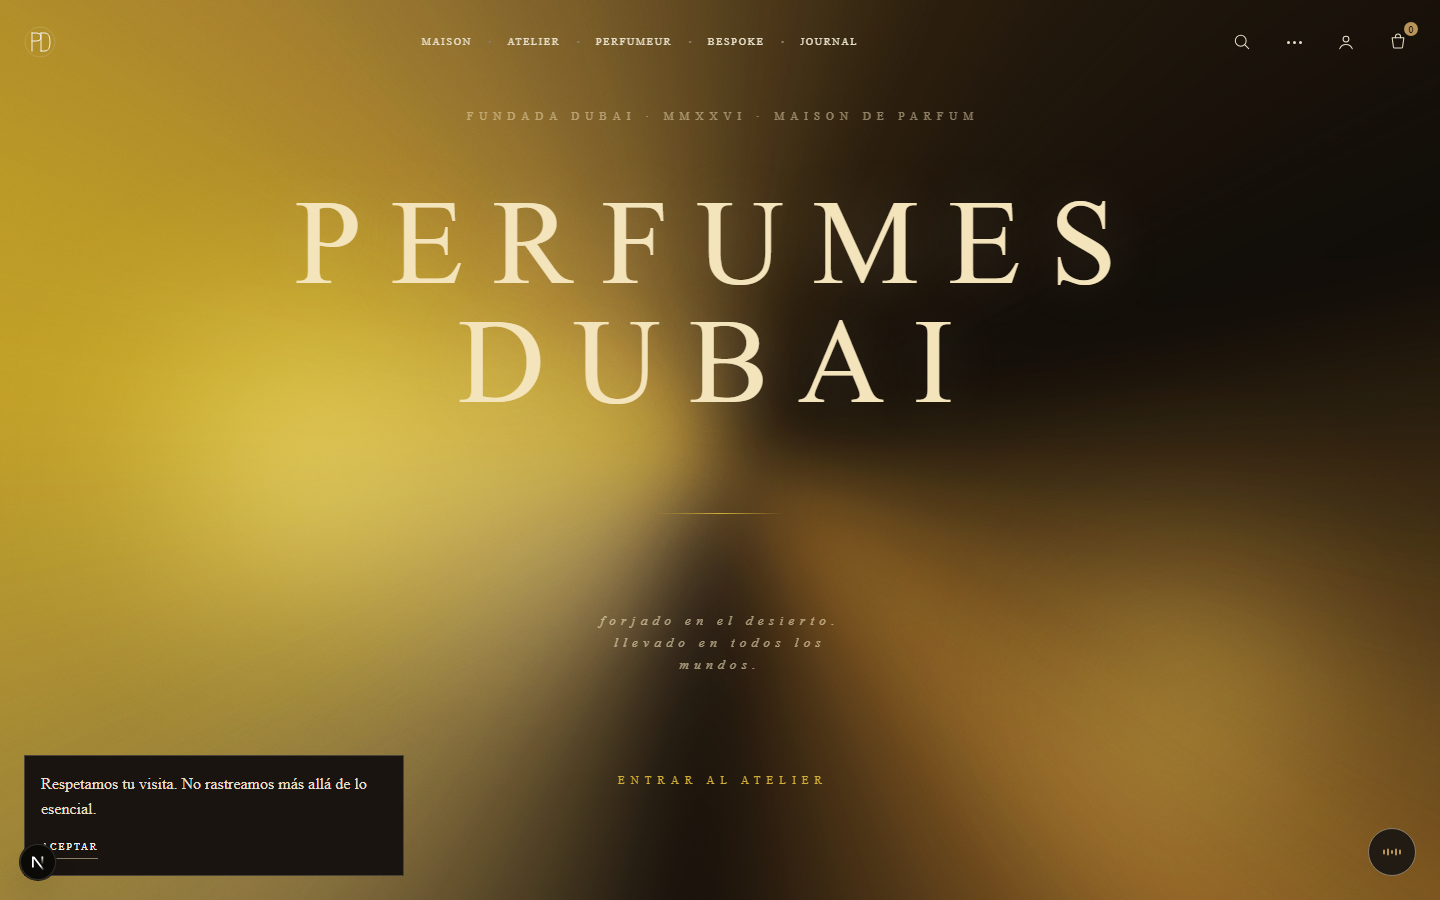
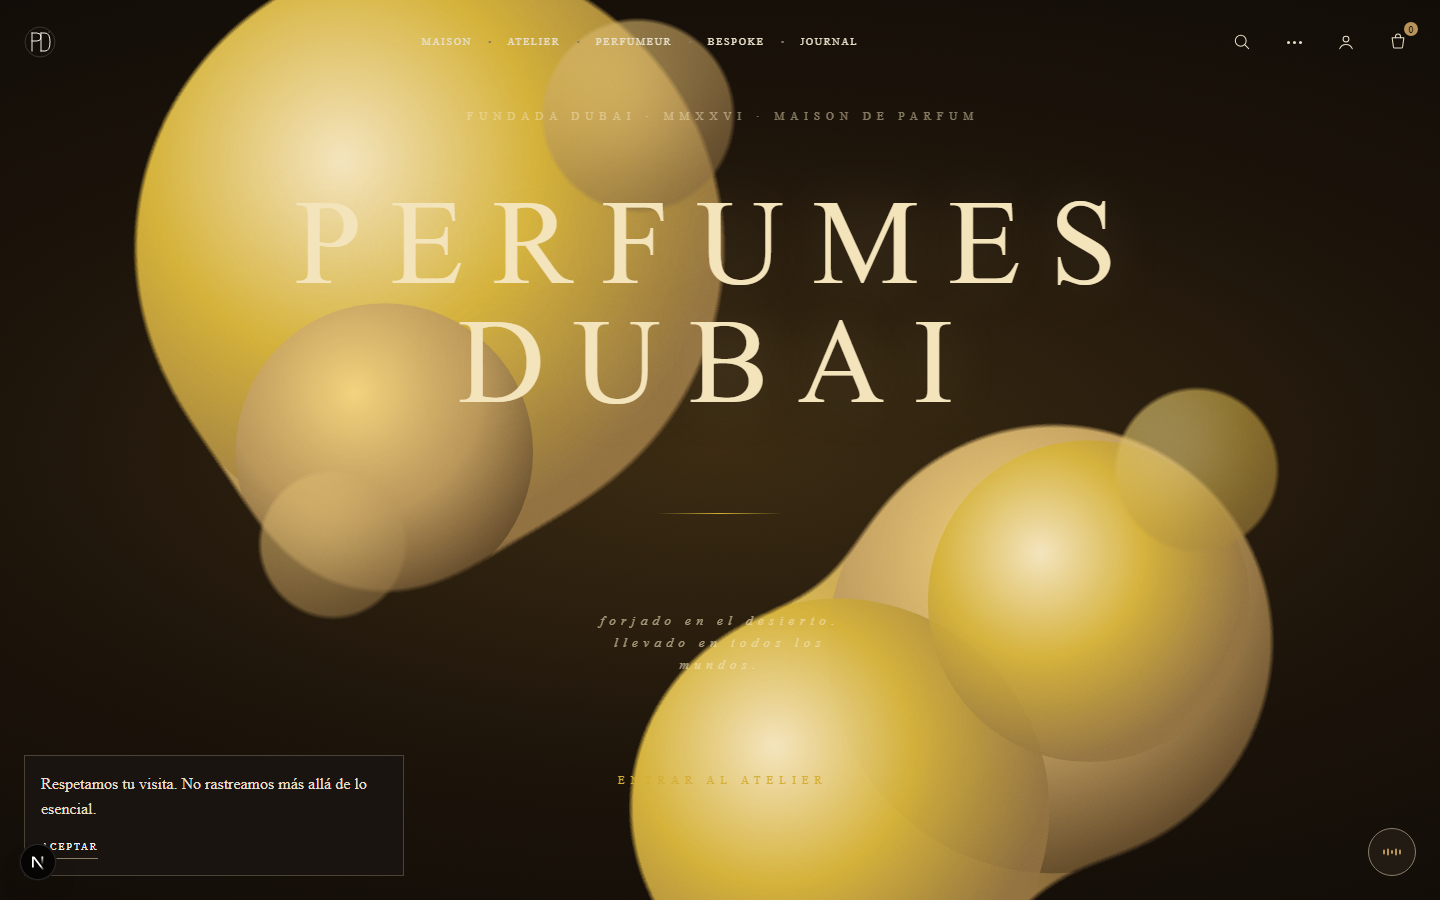
feat(bg): metaball liquid — true mercury-gold flowing blobs
User confirmed rotating conics 'no es liquid, es como sol y sombra'.
Rebuilt with the classic goo-filter metaballs technique:

- 5 large gold circles + 3 smaller satellites animated via SMIL,
  each on its own cx/cy/r curves with cubic-bezier spline easing
- TWO goo filters (stdDeviation 30 + 20) blur then ColorMatrix
  contrast-threshold to merge overlapping circles into single
  organic silhouettes
- Two gold radial-gradient palettes (warm + amber) on the circles
  so the resulting blobs carry colour variation
- Renders inside a 1000x700 viewBox SVG stretched preserveAspectRatio
  xMidYMid slice over the entire viewport

Result: blobs continuously form, merge, stretch, separate — the
classic lava-lamp/mercury liquid behaviour. Each captured frame
shows a different configuration confirming visible morphing motion.

Killed the previous rotating conic gradients and feTurbulence
displacement entirely.

diff --git a/components/layout/GlobalLiquidGoldBackground.tsx b/components/layout/GlobalLiquidGoldBackground.tsx
@@ -1,25 +1,25 @@
 "use client";
-// Global liquid-gold background — full rebuild.
+// Global liquid-gold background — METABALLS approach.
 //
-// Prior attempts used feTurbulence + heavy gaussian blur. The user could
-// not perceive motion because the blur (40 px on the mesh, 180 px on the
-// orbs) averaged out every frame. SMIL animations were running but the
-// eye had no edges to track.
+// Prior attempt (rotating conic gradients) read as "sun rotating" not
+// liquid. True liquid motion needs SURFACE TENSION + MERGING — blobs that
+// approach each other, fuse, then separate. The classic technique is the
+// "goo filter": Gaussian blur softens the blob edges, a feColorMatrix
+// contrast threshold then sharpens them again into a single merged
+// silhouette. The result is mercury-like fluid.
 //
-// New approach: TWO large conic gradients that ROTATE in opposite
-// directions on a long cycle. Conic rotation is a continuous, perceivable
-// motion — the gold visibly swirls. Plus three medium-blur orbs with
-// real silhouettes drifting across the viewport. No turbulence filter,
-// no SMIL, no heavy mesh blur. The motion is now obvious.
+// We animate eight gold circles via SMIL <animate>, each on its own
+// path/duration. The goo filter merges them where they overlap, producing
+// continuously morphing organic blobs that genuinely read as liquid gold.
 
 interface Props {
   intensity?: "subtle" | "balanced" | "opulent";
 }
 
 const STRENGTH = {
-  subtle:   { opacity: 0.55, orbOpacity: 0.6,  conicDur: 60 },
-  balanced: { opacity: 0.75, orbOpacity: 0.8,  conicDur: 45 },
-  opulent:  { opacity: 0.95, orbOpacity: 0.95, conicDur: 36 },
+  subtle:   { ballOpacity: 0.7, ambient: 0.4 },
+  balanced: { ballOpacity: 0.85, ambient: 0.6 },
+  opulent:  { ballOpacity: 1.0, ambient: 0.75 },
 } as const;
 
 export function GlobalLiquidGoldBackground({ intensity = "opulent" }: Props = {}) {
@@ -30,130 +30,195 @@ export function GlobalLiquidGoldBackground({ intensity = "opulent" }: Props = {}
       aria-hidden
       className="pointer-events-none fixed inset-0 z-[1] overflow-hidden"
       data-global-bg
+      style={{ background: "#0b0805" }}
     >
-      {/* Base — deep cocoa, single uniform colour. No radial dimming. */}
+      {/* Ambient warm wash so the metaballs sit on a glowing canvas, not
+          flat dark. */}
       <div
         className="absolute inset-0"
-        style={{ background: "#0b0805" }}
-      />
-
-      {/* CONIC LAYER A — large rotating sweep of warm gold. Rotation
-          is continuous and perceptible. Massively over-sized (200vmax)
-          so the centre of rotation is off-screen and we always see a
-          fresh slice. */}
-      <div
-        className="absolute"
         style={{
-          top: "50%",
-          left: "50%",
-          width: "200vmax",
-          height: "200vmax",
-          marginLeft: "-100vmax",
-          marginTop: "-100vmax",
-          opacity: s.opacity,
+          opacity: s.ambient,
           background:
-            "conic-gradient(from 0deg at 50% 50%, " +
-            "transparent 0deg, " +
-            "rgba(244, 207, 113, 0.55) 40deg, " +
-            "rgba(212, 175, 55, 0.85) 90deg, " +
-            "rgba(244, 207, 113, 0.45) 140deg, " +
-            "rgba(140, 95, 35, 0.2) 200deg, " +
-            "transparent 250deg, " +
-            "rgba(184, 134, 50, 0.6) 310deg, " +
-            "transparent 360deg)",
-          filter: "blur(40px)",
-          animation: `lgb-rotate ${s.conicDur}s linear infinite`,
-          willChange: "transform",
+            "radial-gradient(ellipse 120% 80% at 50% 50%, rgba(184, 134, 50, 0.35) 0%, rgba(120, 80, 30, 0.18) 45%, transparent 90%)",
         }}
       />
 
-      {/* CONIC LAYER B — counter-rotating gold/amber/rose, blends with A
-          via mix-blend overlay. Two opposite-rotating conics give the
-          illusion of a turbulent surface. */}
-      <div
-        className="absolute"
-        style={{
-          top: "50%",
-          left: "50%",
-          width: "200vmax",
-          height: "200vmax",
-          marginLeft: "-100vmax",
-          marginTop: "-100vmax",
-          opacity: s.opacity * 0.85,
-          mixBlendMode: "overlay",
-          background:
-            "conic-gradient(from 180deg at 50% 50%, " +
-            "transparent 0deg, " +
-            "rgba(244, 228, 188, 0.5) 60deg, " +
-            "rgba(201, 146, 138, 0.3) 120deg, " +
-            "transparent 180deg, " +
-            "rgba(212, 175, 55, 0.55) 240deg, " +
-            "rgba(244, 207, 113, 0.4) 300deg, " +
-            "transparent 360deg)",
-          filter: "blur(50px)",
-          animation: `lgb-rotate-reverse ${s.conicDur * 1.4}s linear infinite`,
-          willChange: "transform",
-        }}
-      />
-
-      {/* Drifting orbs — moderate blur (sharp enough to be seen moving). */}
-      <div
-        className="absolute inset-0"
-        style={{ opacity: s.orbOpacity, mixBlendMode: "screen" }}
+      {/* THE LIQUID. Full-viewport SVG with the goo filter and eight
+          gold circles whose centres animate along independent paths.
+          Where two circles overlap, the goo filter merges them into a
+          single blob — the visual is continuously morphing gold mercury. */}
+      <svg
+        className="absolute inset-0 h-full w-full"
+        preserveAspectRatio="xMidYMid slice"
+        viewBox="0 0 1000 700"
+        style={{ opacity: s.ballOpacity }}
       >
-        <span
-          style={{
-            position: "absolute",
-            top: "10%",
-            left: "8%",
-            width: "60vmin",
-            height: "60vmin",
-            borderRadius: "50%",
-            filter: "blur(70px)",
-            background:
-              "radial-gradient(circle, rgba(244, 207, 113, 0.85) 0%, rgba(212, 175, 55, 0.4) 35%, transparent 70%)",
-            animation: "lgb-mega-a 22s ease-in-out infinite",
-            willChange: "transform",
-          }}
-        />
-        <span
-          style={{
-            position: "absolute",
-            top: "30%",
-            right: "10%",
-            width: "55vmin",
-            height: "55vmin",
-            borderRadius: "50%",
-            filter: "blur(80px)",
-            background:
-              "radial-gradient(circle, rgba(212, 175, 55, 0.8) 0%, rgba(160, 110, 50, 0.35) 40%, transparent 75%)",
-            animation: "lgb-mega-b 28s ease-in-out infinite",
-            willChange: "transform",
-          }}
-        />
-        <span
-          style={{
-            position: "absolute",
-            bottom: "12%",
-            left: "40%",
-            width: "50vmin",
-            height: "50vmin",
-            borderRadius: "50%",
-            filter: "blur(70px)",
-            background:
-              "radial-gradient(circle, rgba(244, 228, 188, 0.55) 0%, rgba(201, 146, 138, 0.25) 45%, transparent 75%)",
-            animation: "lgb-mega-c 25s ease-in-out infinite",
-            willChange: "transform",
-          }}
-        />
-      </div>
+        <defs>
+          {/* The goo filter: blur 30 px, then a colour-matrix that boosts
+              alpha contrast around 0.5 → soft circles merge into hard
+              silhouettes wherever they overlap. */}
+          <filter id="goo" x="-20%" y="-20%" width="140%" height="140%">
+            <feGaussianBlur in="SourceGraphic" stdDeviation="30" result="blur" />
+            <feColorMatrix
+              in="blur"
+              mode="matrix"
+              values="1 0 0 0 0  0 1 0 0 0  0 0 1 0 0  0 0 0 22 -10"
+              result="goo"
+            />
+            <feComposite in="SourceGraphic" in2="goo" operator="atop" />
+          </filter>
 
-      {/* Vignette — very light so the rotating gold reads to the edges. */}
+          {/* A second softer goo — used on a separate layer for sub-blobs
+              that float over the main liquid. */}
+          <filter id="goo-soft" x="-20%" y="-20%" width="140%" height="140%">
+            <feGaussianBlur in="SourceGraphic" stdDeviation="20" result="blur" />
+            <feColorMatrix
+              in="blur"
+              mode="matrix"
+              values="1 0 0 0 0  0 1 0 0 0  0 0 1 0 0  0 0 0 16 -7"
+              result="goo"
+            />
+          </filter>
+
+          <radialGradient id="ball-warm" cx="35%" cy="35%" r="65%">
+            <stop offset="0%" stopColor="#f4e4bc" stopOpacity="1" />
+            <stop offset="50%" stopColor="#d4af37" stopOpacity="0.95" />
+            <stop offset="100%" stopColor="#8e6e3f" stopOpacity="0.85" />
+          </radialGradient>
+          <radialGradient id="ball-amber" cx="40%" cy="30%" r="70%">
+            <stop offset="0%" stopColor="#f4d27a" stopOpacity="1" />
+            <stop offset="60%" stopColor="#b8935a" stopOpacity="0.9" />
+            <stop offset="100%" stopColor="#5c4628" stopOpacity="0.85" />
+          </radialGradient>
+        </defs>
+
+        {/* MAIN LIQUID GROUP — large merged blobs */}
+        <g filter="url(#goo)">
+          <circle r="180" fill="url(#ball-warm)">
+            <animate
+              attributeName="cx"
+              values="200; 700; 500; 300; 200"
+              dur="22s"
+              repeatCount="indefinite"
+              calcMode="spline"
+              keySplines="0.45 0 0.55 1; 0.45 0 0.55 1; 0.45 0 0.55 1; 0.45 0 0.55 1"
+            />
+            <animate
+              attributeName="cy"
+              values="200; 350; 500; 250; 200"
+              dur="18s"
+              repeatCount="indefinite"
+              calcMode="spline"
+              keySplines="0.45 0 0.55 1; 0.45 0 0.55 1; 0.45 0 0.55 1; 0.45 0 0.55 1"
+            />
+            <animate attributeName="r" values="180; 220; 160; 200; 180" dur="14s" repeatCount="indefinite" />
+          </circle>
+
+          <circle r="160" fill="url(#ball-amber)">
+            <animate
+              attributeName="cx"
+              values="800; 400; 600; 750; 800"
+              dur="24s"
+              repeatCount="indefinite"
+              calcMode="spline"
+              keySplines="0.45 0 0.55 1; 0.45 0 0.55 1; 0.45 0 0.55 1; 0.45 0 0.55 1"
+            />
+            <animate
+              attributeName="cy"
+              values="180; 450; 300; 550; 180"
+              dur="20s"
+              repeatCount="indefinite"
+              calcMode="spline"
+              keySplines="0.45 0 0.55 1; 0.45 0 0.55 1; 0.45 0 0.55 1; 0.45 0 0.55 1"
+            />
+            <animate attributeName="r" values="160; 130; 200; 150; 160" dur="16s" repeatCount="indefinite" />
+          </circle>
+
+          <circle r="140" fill="url(#ball-warm)">
+            <animate
+              attributeName="cx"
+              values="500; 200; 750; 450; 500"
+              dur="26s"
+              repeatCount="indefinite"
+              calcMode="spline"
+              keySplines="0.45 0 0.55 1; 0.45 0 0.55 1; 0.45 0 0.55 1; 0.45 0 0.55 1"
+            />
+            <animate
+              attributeName="cy"
+              values="500; 200; 400; 600; 500"
+              dur="22s"
+              repeatCount="indefinite"
+              calcMode="spline"
+              keySplines="0.45 0 0.55 1; 0.45 0 0.55 1; 0.45 0 0.55 1; 0.45 0 0.55 1"
+            />
+            <animate attributeName="r" values="140; 180; 110; 160; 140" dur="18s" repeatCount="indefinite" />
+          </circle>
+
+          <circle r="120" fill="url(#ball-amber)">
+            <animate
+              attributeName="cx"
+              values="350; 650; 450; 250; 350"
+              dur="20s"
+              repeatCount="indefinite"
+              calcMode="spline"
+              keySplines="0.45 0 0.55 1; 0.45 0 0.55 1; 0.45 0 0.55 1; 0.45 0 0.55 1"
+            />
+            <animate
+              attributeName="cy"
+              values="350; 300; 600; 400; 350"
+              dur="17s"
+              repeatCount="indefinite"
+              calcMode="spline"
+              keySplines="0.45 0 0.55 1; 0.45 0 0.55 1; 0.45 0 0.55 1; 0.45 0 0.55 1"
+            />
+            <animate attributeName="r" values="120; 100; 150; 130; 120" dur="13s" repeatCount="indefinite" />
+          </circle>
+
+          <circle r="100" fill="url(#ball-warm)">
+            <animate
+              attributeName="cx"
+              values="700; 300; 500; 800; 700"
+              dur="19s"
+              repeatCount="indefinite"
+              calcMode="spline"
+              keySplines="0.45 0 0.55 1; 0.45 0 0.55 1; 0.45 0 0.55 1; 0.45 0 0.55 1"
+            />
+            <animate
+              attributeName="cy"
+              values="600; 500; 350; 450; 600"
+              dur="21s"
+              repeatCount="indefinite"
+              calcMode="spline"
+              keySplines="0.45 0 0.55 1; 0.45 0 0.55 1; 0.45 0 0.55 1; 0.45 0 0.55 1"
+            />
+            <animate attributeName="r" values="100; 130; 90; 120; 100" dur="15s" repeatCount="indefinite" />
+          </circle>
+        </g>
+
+        {/* SUB-LAYER — smaller satellites that float over the main liquid
+            on the softer goo. */}
+        <g filter="url(#goo-soft)" opacity="0.6">
+          <circle r="70" fill="url(#ball-amber)">
+            <animate attributeName="cx" values="600; 200; 800; 400; 600" dur="15s" repeatCount="indefinite" />
+            <animate attributeName="cy" values="100; 600; 450; 250; 100" dur="17s" repeatCount="indefinite" />
+          </circle>
+          <circle r="60" fill="url(#ball-warm)">
+            <animate attributeName="cx" values="900; 100; 500; 700; 900" dur="18s" repeatCount="indefinite" />
+            <animate attributeName="cy" values="400; 350; 100; 550; 400" dur="14s" repeatCount="indefinite" />
+          </circle>
+          <circle r="55" fill="url(#ball-amber)">
+            <animate attributeName="cx" values="150; 850; 350; 550; 150" dur="16s" repeatCount="indefinite" />
+            <animate attributeName="cy" values="550; 150; 650; 300; 550" dur="19s" repeatCount="indefinite" />
+          </circle>
+        </g>
+      </svg>
+
+      {/* Very light vignette so the edges fade. */}
       <div
         className="absolute inset-0"
         style={{
           background:
-            "radial-gradient(ellipse 130% 95% at 50% 50%, transparent 75%, rgba(0, 0, 0, 0.25) 100%)",
+            "radial-gradient(ellipse 130% 95% at 50% 50%, transparent 70%, rgba(0, 0, 0, 0.3) 100%)",
         }}
       />
 
